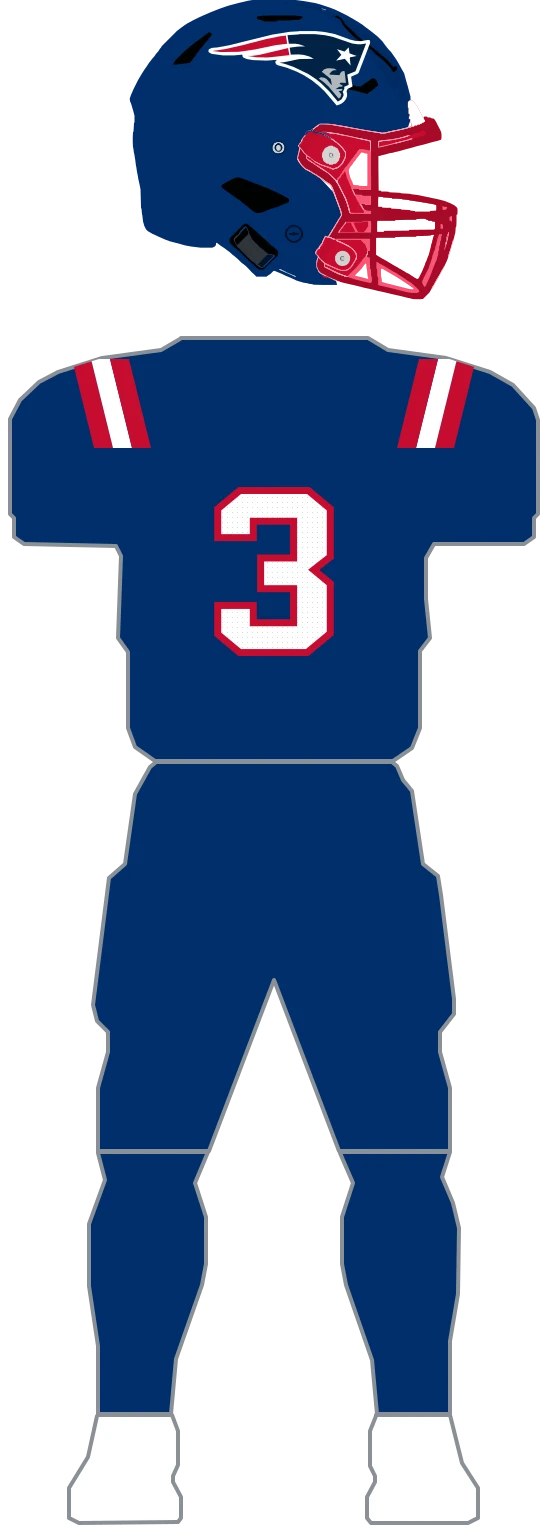
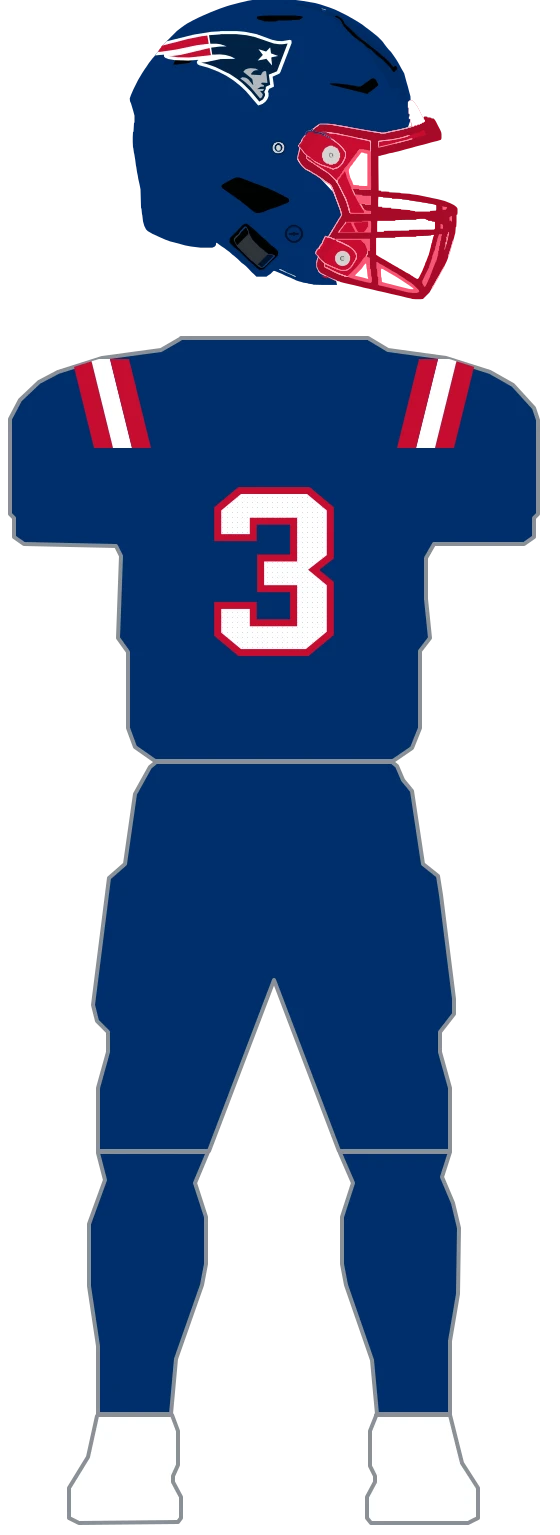
fix(uniforms): align Patriots helmet decal

Changed region(s): [[0.2732, 0.0, 0.6679, 0.0919]]

diff --git a/lib/uniforms/teams/patriots.ts b/lib/uniforms/teams/patriots.ts
@@ -48,12 +48,12 @@ export const PATRIOTS_BANDS_RIGHT = [
 // split by component because the keyline and star share an ink color. All paths use the same source
 // art bbox so the component positions remain aligned in the raw helmet-space placement box.
 export const PATRIOTS_DECAL_KEYLINE_PATH =
-  'M477.3,130.1 L509.9,130.1 L526.3,131.6 L549.7,136.3 L579.6,147.2 L590.5,149.8 L601.3,150.3 L616.0,147.7 L619.3,148.8 L619.8,153.9 L597.0,213.1 L595.3,215.2 L581.7,221.4 L584.5,241.1 L574.7,245.8 L572.5,250.9 L573.6,254.6 L573.6,260.3 L571.4,266.0 L567.6,271.2 L561.6,275.8 L552.9,279.0 L528.4,250.4 L518.1,240.6 L504.0,229.2 L488.7,219.3 L473.5,211.5 L452.3,203.2 L435.4,198.6 L431.6,196.5 L430.0,192.3 L431.1,189.7 L433.3,188.2 L432.7,187.7 L413.1,189.2 L385.4,188.2 L373.4,186.1 L366.9,183.5 L364.7,181.4 L364.2,177.3 L347.3,178.8 L325.5,178.8 L302.7,175.7 L297.3,172.6 L296.2,170.5 L297.3,166.4 L303.2,163.8 L314.7,162.8 L337.5,158.6 L423.5,137.3 L458.8,131.6 L476.8,130.6 Z';
+  'M320.3,130.1 L352.9,130.1 L369.3,131.6 L392.7,136.3 L422.6,147.2 L433.5,149.8 L444.3,150.3 L459.0,147.7 L462.3,148.8 L462.8,153.9 L440.0,213.1 L438.3,215.2 L424.7,221.4 L427.5,241.1 L417.7,245.8 L415.5,250.9 L416.6,254.6 L416.6,260.3 L414.4,266.0 L410.6,271.2 L404.6,275.8 L395.9,279.0 L371.4,250.4 L361.1,240.6 L347.0,229.2 L331.7,219.3 L316.5,211.5 L295.3,203.2 L278.4,198.6 L274.6,196.5 L273.0,192.3 L274.1,189.7 L276.3,188.2 L275.7,187.7 L256.1,189.2 L228.4,188.2 L216.4,186.1 L209.9,183.5 L207.7,181.4 L207.2,177.3 L190.3,178.8 L168.5,178.8 L145.7,175.7 L140.3,172.6 L139.2,170.5 L140.3,166.4 L146.2,163.8 L157.7,162.8 L180.5,158.6 L266.5,137.3 L301.8,131.6 L319.8,130.6 Z';
 export const PATRIOTS_DECAL_FACE_PATH =
-  'M477.9,136.3 L509.4,136.3 L529.5,138.4 L545.8,142.0 L583.9,155.0 L594.8,156.5 L601.9,156.5 L611.7,155.0 L590.5,210.5 L574.1,217.2 L576.9,237.5 L568.1,241.6 L568.1,245.8 L564.9,252.0 L566.5,255.6 L566.5,259.2 L562.7,266.5 L555.1,271.2 L538.2,250.9 L521.4,234.3 L511.0,226.0 L496.3,216.2 L466.4,201.7 L447.9,195.4 L438.7,193.4 L447.9,192.3 L477.9,186.1 L507.2,185.6 L498.0,180.9 L486.6,177.8 L476.2,176.8 L461.0,177.3 L458.8,163.3 L475.1,161.2 L489.8,160.7 L477.3,156.5 L470.2,155.5 L457.2,155.5 L454.5,138.4 L477.3,136.8 Z';
+  'M320.9,136.3 L352.4,136.3 L372.5,138.4 L388.8,142.0 L426.9,155.0 L437.8,156.5 L444.9,156.5 L454.7,155.0 L433.5,210.5 L417.1,217.2 L419.9,237.5 L411.1,241.6 L411.1,245.8 L407.9,252.0 L409.5,255.6 L409.5,259.2 L405.7,266.5 L398.1,271.2 L381.2,250.9 L364.4,234.3 L354.0,226.0 L339.3,216.2 L309.4,201.7 L290.9,195.4 L281.7,193.4 L290.9,192.3 L320.9,186.1 L350.2,185.6 L341.0,180.9 L329.6,177.8 L319.2,176.8 L304.0,177.3 L301.8,163.3 L318.1,161.2 L332.8,160.7 L320.3,156.5 L313.2,155.5 L300.2,155.5 L297.5,138.4 L320.3,136.8 Z';
 export const PATRIOTS_DECAL_STREAMERS_PATH =
-  'M450.1,138.9 L451.2,139.4 L453.9,155.5 L431.6,158.1 L389.7,166.9 L357.1,171.6 L321.7,172.1 L303.8,170.0 L331.5,165.9 L363.6,158.6 L411.5,146.2 L439.8,140.5 L449.6,139.4 Z M455.6,163.8 L458.3,178.3 L414.2,183.0 L391.9,182.5 L373.4,179.9 L382.1,179.9 L397.9,177.8 L455.0,164.3 Z';
+  'M293.1,138.9 L294.2,139.4 L296.9,155.5 L274.6,158.1 L232.7,166.9 L200.1,171.6 L164.7,172.1 L146.8,170.0 L174.5,165.9 L206.6,158.6 L254.5,146.2 L282.8,140.5 L292.6,139.4 Z M298.6,163.8 L301.3,178.3 L257.2,183.0 L234.9,182.5 L216.4,179.9 L225.1,179.9 L240.9,177.8 L298.0,164.3 Z';
 export const PATRIOTS_DECAL_SILVER_PATH =
-  'M537.1,204.3 L548.0,205.3 L553.5,208.4 L548.0,208.4 L543.7,210.0 L538.8,215.2 L538.8,217.2 L558.4,218.3 L560.5,213.6 L563.3,211.0 L566.0,210.0 L568.7,210.5 L571.4,233.8 L560.5,233.3 L558.4,235.9 L564.3,238.5 L564.3,241.1 L557.8,241.6 L550.7,246.3 L564.9,245.8 L562.2,249.9 L556.7,249.9 L562.2,256.7 L560.5,262.4 L556.7,265.0 L536.6,241.1 L526.3,231.8 L517.0,225.0 L521.4,222.4 L528.4,223.5 L533.3,226.6 L541.5,236.9 L542.6,238.0 L543.1,237.5 L541.0,226.0 L523.0,211.5 L527.4,206.9 L533.3,204.8 L536.6,204.8 Z';
+  'M380.1,204.3 L391.0,205.3 L396.5,208.4 L391.0,208.4 L386.7,210.0 L381.8,215.2 L381.8,217.2 L401.4,218.3 L403.5,213.6 L406.3,211.0 L409.0,210.0 L411.7,210.5 L414.4,233.8 L403.5,233.3 L401.4,235.9 L407.3,238.5 L407.3,241.1 L400.8,241.6 L393.7,246.3 L407.9,245.8 L405.2,249.9 L399.7,249.9 L405.2,256.7 L403.5,262.4 L399.7,265.0 L379.6,241.1 L369.3,231.8 L360.0,225.0 L364.4,222.4 L371.4,223.5 L376.3,226.6 L384.5,236.9 L385.6,238.0 L386.1,237.5 L384.0,226.0 L366.0,211.5 L370.4,206.9 L376.3,204.8 L379.6,204.8 Z';
 export const PATRIOTS_DECAL_STAR_PATH =
-  'M576.9,162.8 L578.5,174.7 L592.6,179.9 L580.1,182.5 L579.0,183.5 L580.7,199.1 L569.2,185.6 L551.8,189.2 L562.2,177.8 L553.5,166.4 L568.7,171.1 L576.3,163.3 Z';
+  'M419.9,162.8 L421.5,174.7 L435.6,179.9 L423.1,182.5 L422.0,183.5 L423.7,199.1 L412.2,185.6 L394.8,189.2 L405.2,177.8 L396.5,166.4 L411.7,171.1 L419.3,163.3 Z';

diff --git a/scripts/uniform-draw/patriots_mark.py b/scripts/uniform-draw/patriots_mark.py
@@ -10,7 +10,7 @@ The SVG is used only as the linework source and is never committed. The GUD 2025
 used only for placement measurements: on the home helmet the visible mark spans approximately
 x=37..159 and y=285..399, or 11.5% left, 70.1% wide, 14.6% top, and 20.2% high against the
 helmet shell. Transferred to the raw mannequin shell, that is the retained placement box
-``Box(294.0, 128.0, 328.0, 152.0)``; its 2.16 aspect intentionally follows the shell's
+``Box(137.0, 128.0, 328.0, 152.0)``; its 2.16 aspect intentionally follows the shell's
 foreshortened side view rather than squeezing the flat SVG to its own 2.03 aspect.
 
 TOPOLOGY, measured before tracing from a black-backed raster of the SVG: one 8-connected navy
@@ -43,7 +43,7 @@ from drawkit import Box, components, crop_to_art, main, mask, trace  # noqa: E40
 
 REF = Path.home() / 'Documents/GitHubProjects/nfl-uniform-refs/patriots/patriots-mark.svg'
 MODULE = Path(__file__).resolve().parents[2] / 'lib' / 'uniforms' / 'teams' / 'patriots.ts'
-BOX = Box(294.0, 128.0, 328.0, 152.0)
+BOX = Box(137.0, 128.0, 328.0, 152.0)
 MIN_REGION = 100
 EPS = 1.2
 
